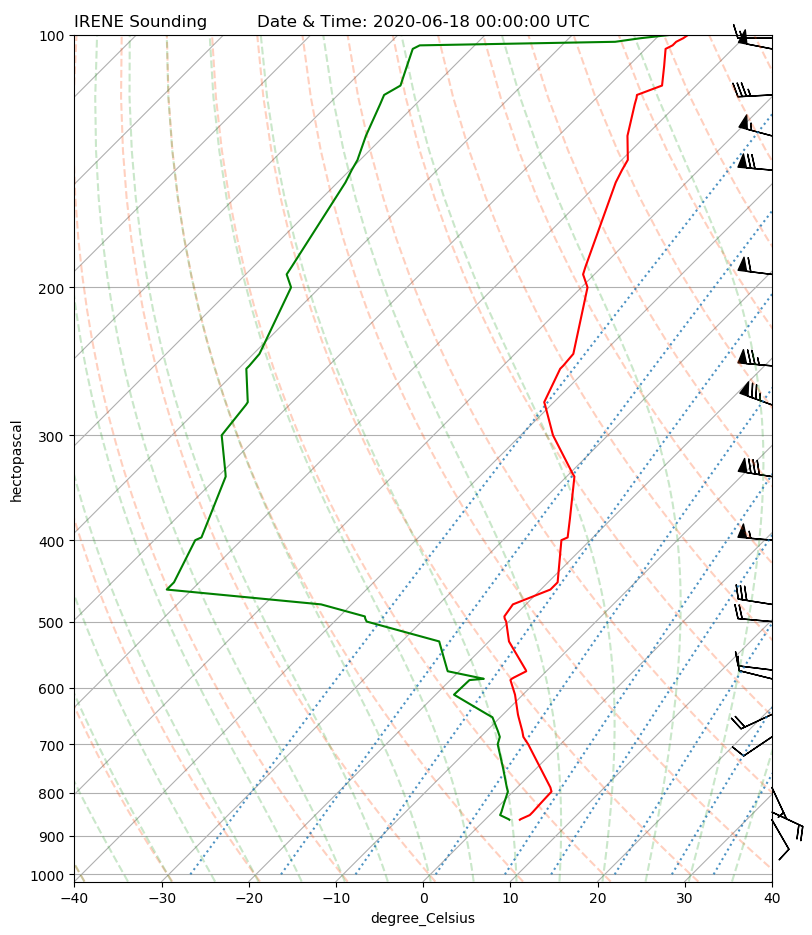
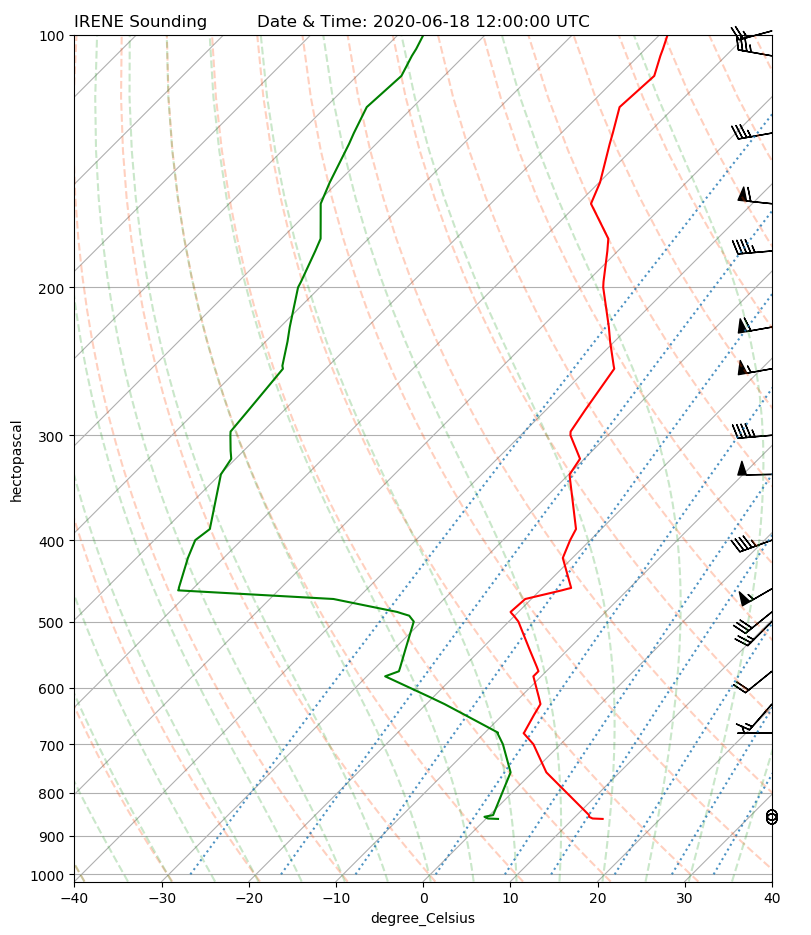
latest Irene sounding

diff --git a/sounding/Irene_real_time_Skew-T_Analysis.py b/sounding/Irene_real_time_Skew-T_Analysis.py
@@ -10,11 +10,10 @@ from siphon.simplewebservice.wyoming import WyomingUpperAir
 # Plan to soft code these variables in future updates, 
 
 # to make it easy to access any station in South Africa for any given time
-dt = datetime(2020, 6, 18, 0)
+dt = datetime(2020, 6, 18, 12)
 station = 'FAIR'
 
 # Grab remote data from server at the University of Wyoming. This requires internet connection.
-
 # Read remote sounding data based on time (dt) and station
 df = WyomingUpperAir.request_data(dt, station)
 
